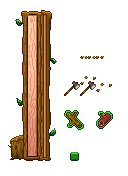
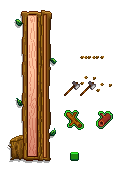
mining ui

diff --git a/FishMod/FishMod/BobberBars/MiningBobberBar.cs b/FishMod/FishMod/BobberBars/MiningBobberBar.cs
@@ -20,6 +20,8 @@ namespace FishMod
 {
 	public class MiningBobberBar : IClickableMenu
 	{
+		public static Texture2D miningBobberBarTextures;
+		
 		public bool handledFishResult;
 
 		public float uiScale;
@@ -27,6 +29,8 @@ namespace FishMod
 		public float everythingShakeTimer;
 
 		public bool treasureInBar;
+		
+		public float axeChoppingAngle;
 
 		private bool slimeInBar;
 		private bool rockInBar;
@@ -53,8 +57,8 @@ namespace FishMod
 		public float distanceFromCatchingSlime = 1f;
 		
 		public static ICue reelSound;
-
 		public static ICue unReelSound;
+		public static ICue chopSound;
 		
 		public List<TreasureInstance> treasures = new ();
 
@@ -71,6 +75,8 @@ namespace FishMod
 			this.tool = tool;
 			this.location = location;
 			this.tileLocation = tileLocation;
+			
+			axeChoppingAngle = MathHelper.ToRadians(220);
 			
 			Rock = new TreasureInstance(TreasureSprites.Rock, false, 20, 20);
 			Rock.decreaseRate = 0;
@@ -281,6 +287,7 @@ public override void update(GameTime time)
 		return;
 	}
 	fishUpdate(time);
+	SwingingAnimationUpdate(time);
 }
 
 public void fishUpdate(GameTime time)
@@ -292,7 +299,8 @@ public void fishUpdate(GameTime time)
 	                                                   Game1.oldPadState.IsButtonDown(Buttons.A)));
 	if (!wasPressing && buttonPressed)
 	{
-		Game1.playSound("fishingRodBend");
+		Game1.playSound("fishingRodBend", -100000, out ICue bend);
+		bend.Volume = 0.7f;
 	}
 
 	float gravity = buttonPressed ? -0.25f : 0.25f;
@@ -340,7 +348,7 @@ public void fishUpdate(GameTime time)
 
 	if (slimeInBar)
 	{
-		cueName = "daggerswipe";
+		cueName = "swordswipe";
 		//distanceFromCatchingSlime += 0.002f;
 		if (Slime.treasureCaught)
 		{
@@ -357,7 +365,7 @@ public void fishUpdate(GameTime time)
 		if (distanceFromCatchingSlime <= 0f)
 		{
 			tool.lastUser.health -= 10;
-			tool.lastUser.currentLocation.debris.Add(new Debris(5, new Vector2(tool.lastUser.StandingPixel.X + 8, tool.lastUser.StandingPixel.Y), Color.Red, 1f, tool.lastUser));
+			tool.lastUser.currentLocation.debris.Add(new StardewValley.Debris(5, new Vector2(tool.lastUser.StandingPixel.X + 8, tool.lastUser.StandingPixel.Y), Color.Red, 1f, tool.lastUser));
 			tool.lastUser.playNearbySoundAll("ow");
 			
 			distanceFromCatchingSlime = 1f;
@@ -409,6 +417,7 @@ public void fishUpdate(GameTime time)
 			if (cueName != "")
 			{
 				Game1.playSound(cueName, out reelSound);
+				reelSound.Volume = .8f;
 			}
 		}
 	}
@@ -438,6 +447,82 @@ public void fishUpdate(GameTime time)
 	}
 }
 
+private static class AxeAnimStates
+{
+	public const int Chop = 0;
+	public const int PullBack = 1;
+}
+
+private class Debris
+{
+	public Debris(int i, int x, int y, Vector2 vel)
+	{
+		index = i;
+		this.x = x;
+		this.y = y;
+		velocity = vel;
+	}
+	
+	public int index;
+	public int x;
+	public int y;
+	public Vector2 velocity;
+}
+		
+private List<Debris> debris = new List<Debris>();
+private int axeAnimstate = AxeAnimStates.Chop;
+private float debrisAlpha = 1.0f;
+private void SwingingAnimationUpdate(GameTime time)
+{
+	debrisAlpha -= 0.02f;
+	
+	foreach (Debris d in debris)
+	{
+		d.x += (int)d.velocity.X;
+		d.y += (int)d.velocity.Y;
+		d.y += 10;
+		//d.velocity.X -= .1f;
+		d.velocity.X = Math.Clamp(d.velocity.X, -4, 10);
+		d.velocity.Y += .1f;
+		d.velocity.Y = Math.Clamp(d.velocity.Y, -12, 0);
+	}
+	
+	switch (axeAnimstate)
+	{
+		case AxeAnimStates.Chop:
+			axeChoppingAngle += MathHelper.ToRadians(4);
+			break;
+		case AxeAnimStates.PullBack:
+			axeChoppingAngle -= MathHelper.ToRadians(1.5f);
+			break;
+	}
+	
+	if (axeChoppingAngle < MathHelper.ToRadians(230) && axeAnimstate != AxeAnimStates.Chop)
+	{
+		//start chop
+		axeAnimstate = AxeAnimStates.Chop;
+	}
+	
+	if (axeChoppingAngle > MathHelper.ToRadians(340) && axeAnimstate != AxeAnimStates.PullBack)
+	{
+		Game1.playSound("hammer", out chopSound);
+
+		//start backswing
+		axeAnimstate = AxeAnimStates.PullBack;
+		debrisAlpha = 1.0f;
+		ConstructDebris();
+	}
+}
+
+private void ConstructDebris()
+{
+	debris = new List<Debris>();
+	for (int i = 0; i < 4; i++)
+	{
+		debris.Add(new Debris(Game1.random.Next(0,9), Game1.random.Next(-10,2), Game1.random.Next(-8,9), new Vector2(Game1.random.Next(-2, 5), Game1.random.Next(-20, -10))));
+	}
+}
+
 public override void draw(SpriteBatch b)
 		{
 			// Draw order matters
@@ -450,23 +535,28 @@ public override void draw(SpriteBatch b)
 				new Vector2(26f, 78.5f) * uiScale, 4f * uiScale,
 				flipBubble ? SpriteEffects.FlipHorizontally : SpriteEffects.None, 0.001f);
 			
-			// bar background
+			int barXPos = xPositionOnScreen + 54;
+			// Pau's mining background
+			b.Draw(miningBobberBarTextures, new Vector2(barXPos, yPositionOnScreen + 300 - 18) + everythingShake,
+				new Rectangle(4, 8, 45, 156), Color.White * uiScale, 0f, new Vector2(18.5f, 74f) * uiScale, 4f * uiScale,
+				SpriteEffects.None, 0.01f);
+			
+			/*// bar background
 			b.Draw(DeluxeFishingRodTool.fishingTextures, new Vector2(xPositionOnScreen + 50, yPositionOnScreen + 230) + everythingShake,
 				new Rectangle(0, 176, 42, 186), Color.White * uiScale, 0f, new Vector2(18.5f, 74f) * uiScale, 4f * uiScale,
 				SpriteEffects.None, 0.01f);
 
-			int barXPos = xPositionOnScreen + 100;
 			// bar ui background
 			b.Draw(DeluxeFishingRodTool.fishingTextures, new Vector2(barXPos, yPositionOnScreen + 296) + everythingShake,
 				new Rectangle(141, 362, 29, 148), Color.White * uiScale, 0f, new Vector2(18.5f, 74f) * uiScale, 4f * uiScale,
-				SpriteEffects.None, 0.01f);
+				SpriteEffects.None, 0.01f);*/
 			
 			// Gameplay bar
 			if (uiScale == 1f)
 			{
 				// These 3 are bobber bar
-				int colorIndex = 4;
-				int bobberXPos = barXPos - 62;
+				int colorIndex = -3;
+				int bobberXPos = barXPos - 10;
 				b.Draw(DeluxeFishingRodTool.fishingTextures,
 					new Vector2(bobberXPos, yPositionOnScreen + 12 + (int)bobberBarPos) + barShake +
 					everythingShake, new Rectangle(216, 447 + 10 * colorIndex, 9, 2),
@@ -496,24 +586,34 @@ public override void draw(SpriteBatch b)
 				
 				// current level of Success bar
 				b.Draw(Game1.staminaRect,
-					new Rectangle(barXPos - 10,
-						yPositionOnScreen + 4 + (int)(580f * (1f - distanceFromCatchingSlime)), 16,
-						(int)(580f * distanceFromCatchingSlime)), Color.Lerp(Color.Red, Color.LimeGreen, distanceFromCatchingSlime));
+					new Rectangle(barXPos + 54,
+						yPositionOnScreen + 14 + (int)(570f * (1f - distanceFromCatchingSlime)), 8,
+						(int)(570f * distanceFromCatchingSlime)), Color.Lerp(Color.Red, Color.LimeGreen, distanceFromCatchingSlime));
 				
 				// current level of Success bar 2
 				b.Draw(Game1.staminaRect,
-					new Rectangle(barXPos + 18,
-						yPositionOnScreen + 4 + (int)(580f * (1f - distanceFromCatchingRock)), 16,
-						(int)(580f * distanceFromCatchingRock)), Color.Lerp(Color.Gray, Color.White, distanceFromCatchingRock));
+					new Rectangle(barXPos + 44,
+						yPositionOnScreen + 14 + (int)(570f * (1f - distanceFromCatchingRock)), 8,
+						(int)(570f * distanceFromCatchingRock)), Color.Lerp(Color.Gray, Color.White, distanceFromCatchingRock));
 				
-				/*
-				// TODO add mining anim for bar?
-				b.Draw(Game1.mouseCursors,
-					new Vector2(xPositionOnScreen - 18, yPositionOnScreen + 514) + everythingShake,
-					new Rectangle(32, 657, 16, 15), Color.White, reelRotation, new Vector2(2f, 10f), 4f,
-					SpriteEffects.None, 0.9f);*/
+				/// Pickaxe
+				b.Draw(miningBobberBarTextures,
+					new Vector2(xPositionOnScreen - 45, yPositionOnScreen + 520) + everythingShake,
+					new Rectangle(81, 48, 15, 15), Color.White, axeChoppingAngle, new Vector2(4f, 10f), 4f,
+					SpriteEffects.None, 0.9f);
 
-				int xTreasureOffset = xPositionOnScreen - 26;
+				if (debrisAlpha > 0f)
+				{
+					// Debris
+					foreach(Debris d in debris)
+					{
+						b.Draw(miningBobberBarTextures,
+							new Vector2(xPositionOnScreen + d.x, yPositionOnScreen + 505 + d.y) + everythingShake,
+							new Rectangle(100 + 4 * d.index, 30, 4, 4), Color.White * debrisAlpha, axeChoppingAngle, new Vector2(0f, 0f), 4f,
+							SpriteEffects.None, 0.9f);
+					}
+				}
+				int xTreasureOffset = xPositionOnScreen - 20;
 				//draw treasures
 				foreach (var t in treasures)
 				{

diff --git a/FishMod/FishMod/ModEntry.cs b/FishMod/FishMod/ModEntry.cs
@@ -32,6 +32,7 @@ namespace FishMod
 
             DeluxeFishingRodTool.fishingTextures = helper.ModContent.Load<Texture2D>(DeluxeFishingRodTool.FishSpritesPath);
             TreeBobberBar.treeBobberBarTextures = helper.ModContent.Load<Texture2D>("Assets/WoodChoppingUI.png");
+            MiningBobberBar.miningBobberBarTextures = helper.ModContent.Load<Texture2D>("Assets/MiningUI.png");
             Config = helper.ReadConfig<ModConfig>();
             HarmonyPatches();
         }
